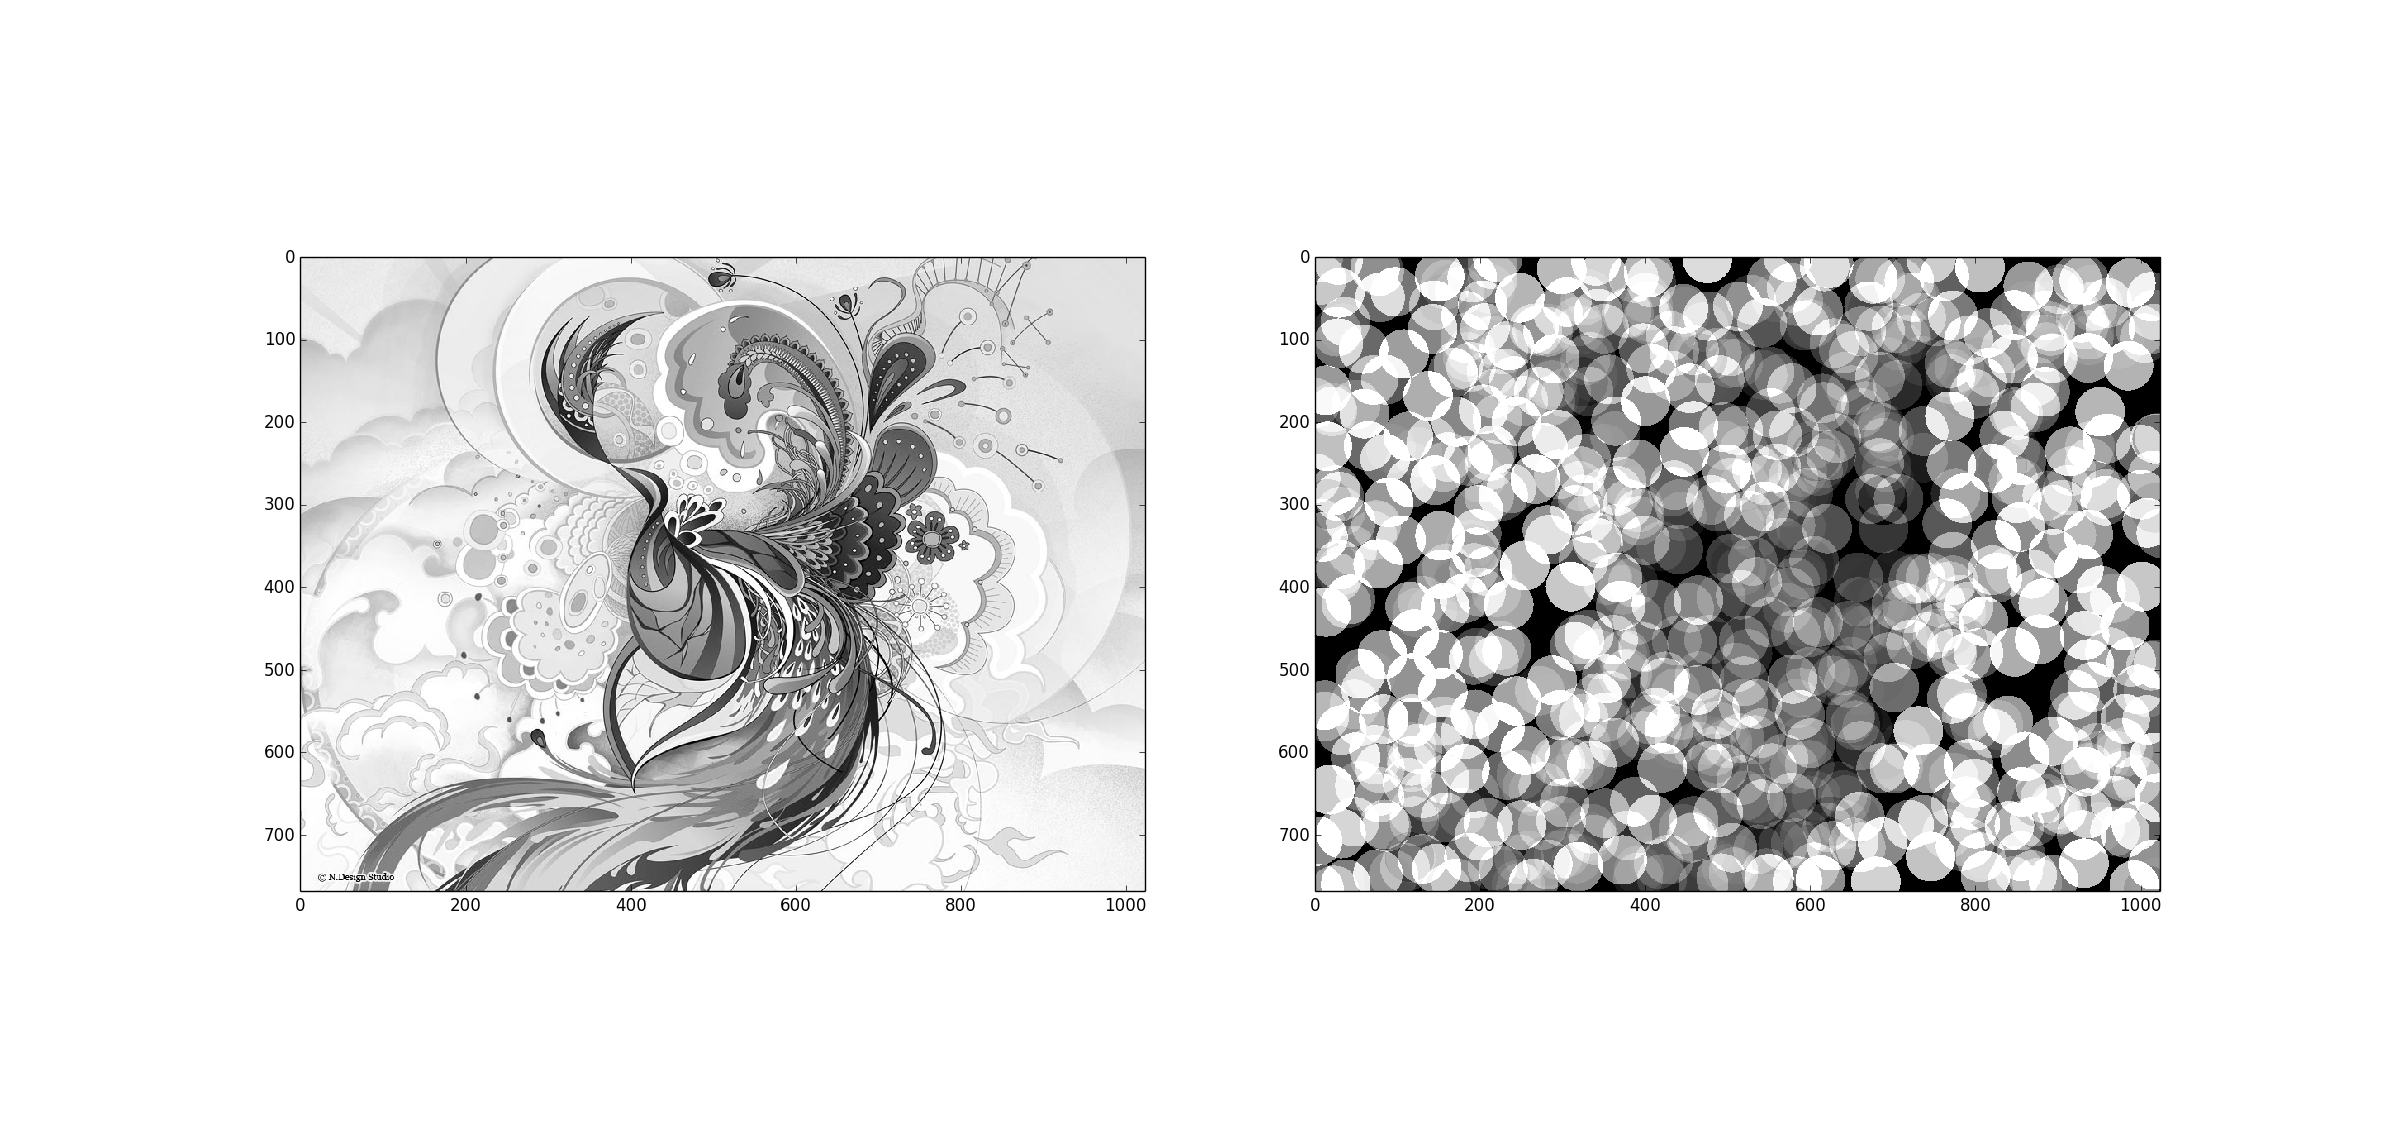
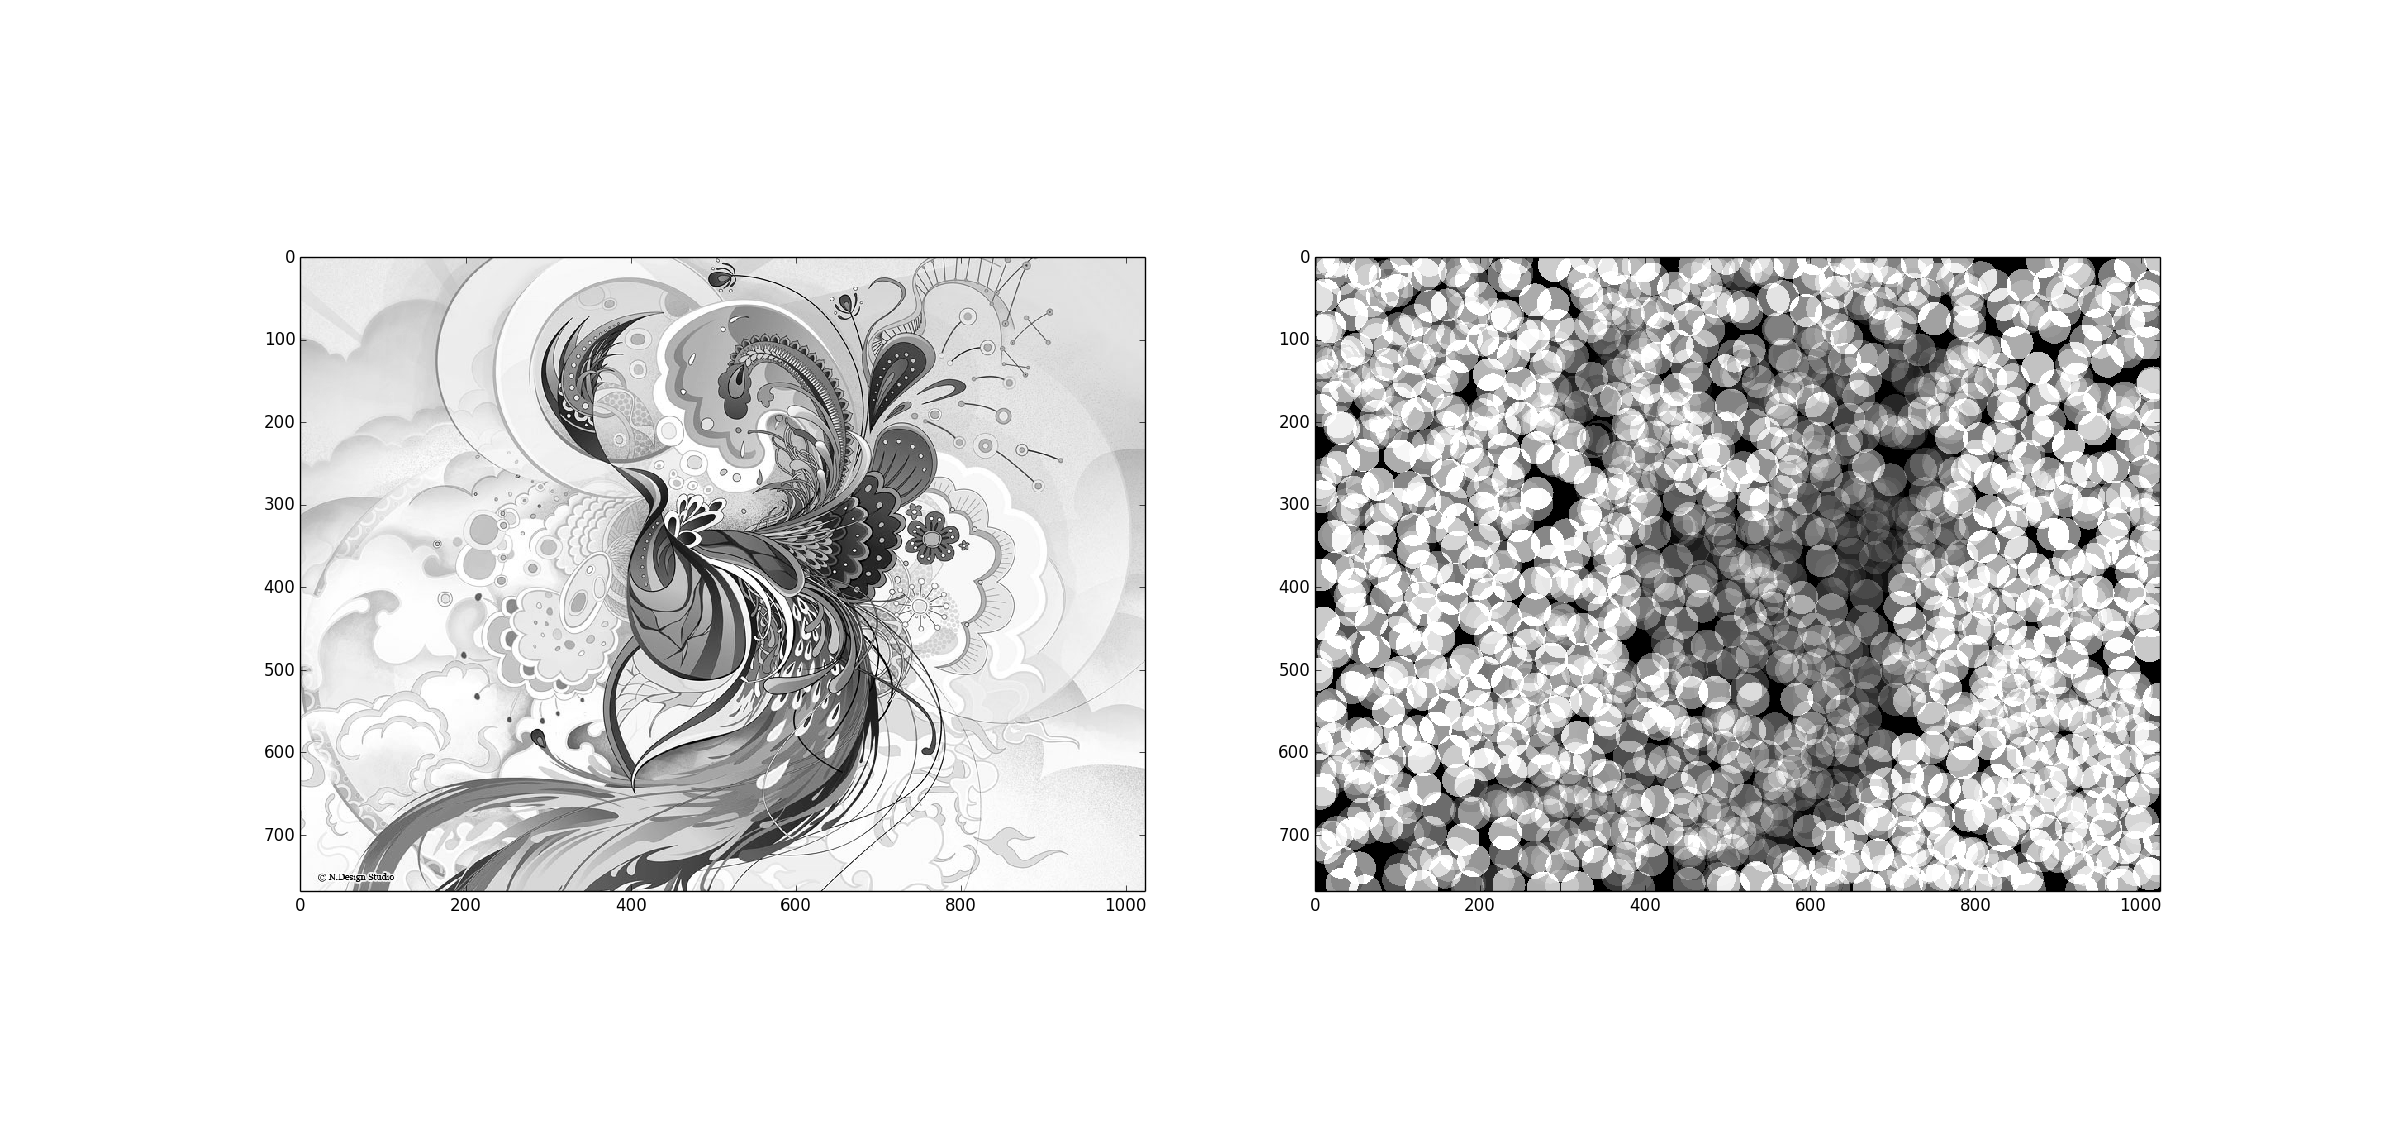
hw2-p5

Changed region(s): [[0.5312, 0.2134, 0.9062, 0.7927]]

diff --git a/homework2/code/main.py b/homework2/code/main.py
@@ -3,7 +3,7 @@ from numpy import zeros
 from numpy.linalg import norm
 from numpy.random import rand
 import matplotlib.pyplot as plt
-import scipy, cv2, time
+import cv2, time
 import ipdb
 
 
@@ -92,7 +92,7 @@ def main():
 
     start_time = time.time()
     # Generate circular tiles. Smaller R -> better (and slower) approximation
-    T = gen_circ_tiles(img.shape, 30)
+    T = gen_circ_tiles(img.shape, 20)
     T = np.reshape(T,(T.shape[0], W*H)) # Flatten tiles from I to 0 .. W*H-1
     To = gram_schmidt(T) # This is where your code should run
     To = np.reshape(To,(To.shape[0], H, W)) # Re-rectangle tiles back to I
